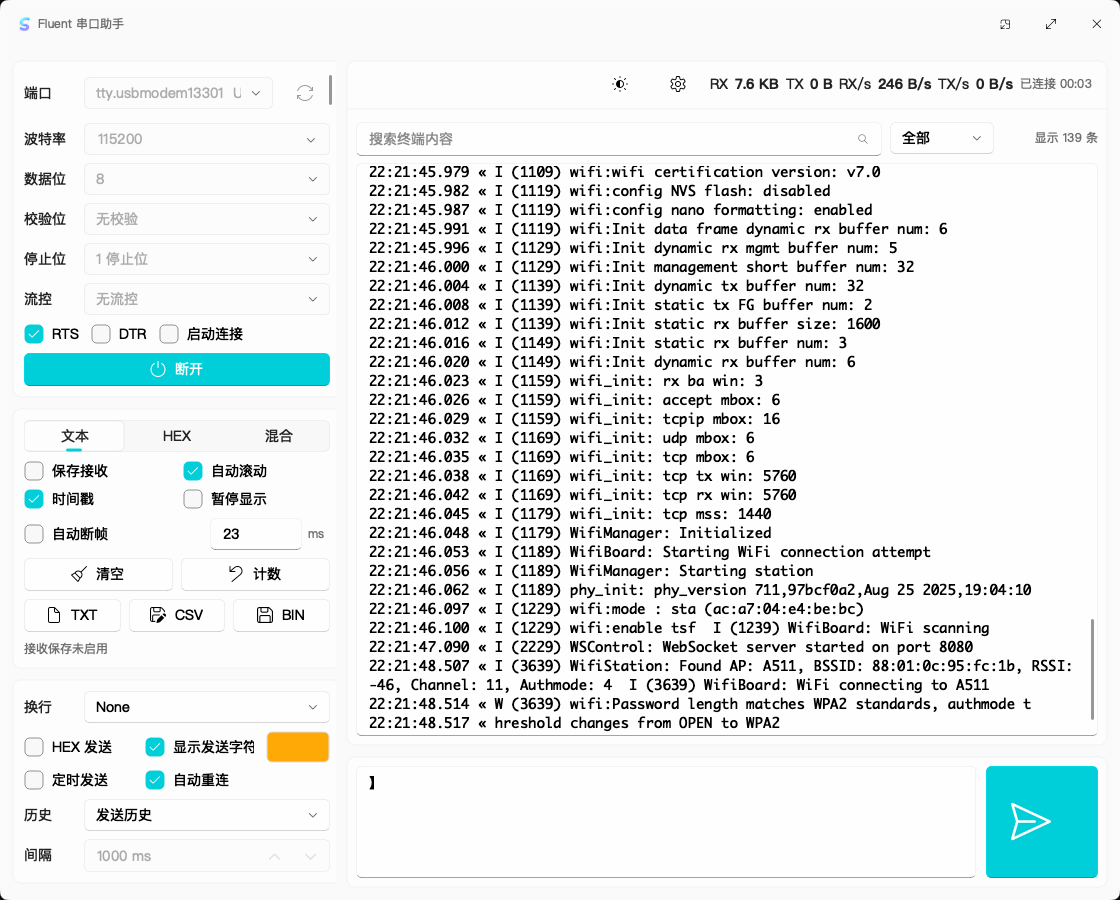
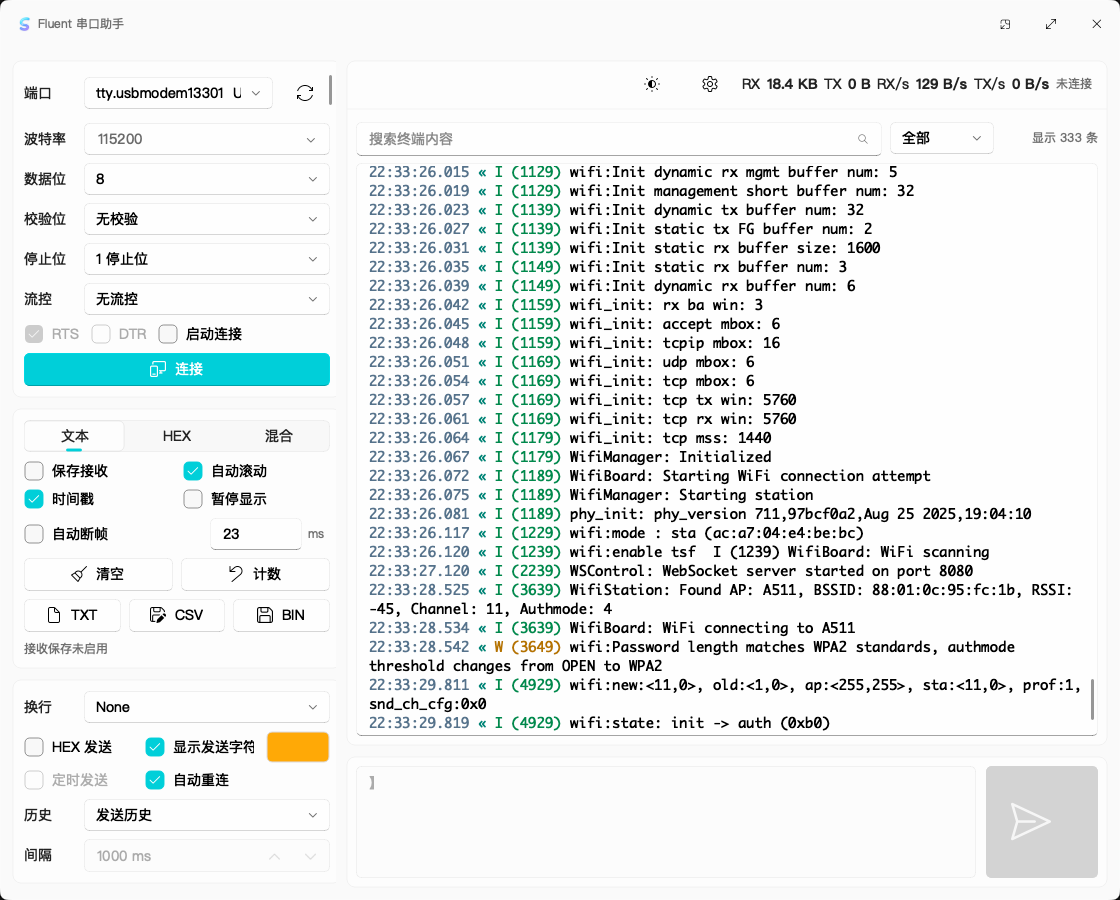
feat: 添加终端颜色主题支持和日志格式化功能

diff --git a/src/app/view/workbench_page.cpp b/src/app/view/workbench_page.cpp
@@ -6,6 +6,7 @@
 #include <FluentQtWidgets/Dialogs/FolderListDialog.h>
 #include <FluentQtWidgets/Settings/SettingCard.h>
 #include <FluentQtWidgets/StyleSheet.h>
+#include <FluentQtWidgets/Theme.h>
 
 #include <QtCore/QDir>
 #include <QtCore/QFileInfo>
@@ -50,6 +51,64 @@ constexpr int ReconnectIntervalMs = 2000;
 constexpr int CompactControlHeight = 32;
 constexpr int DefaultFileChunkSize = 256;
 constexpr int DefaultFileChunkIntervalMs = 10;
+
+QColor terminalTimestampColor()
+{
+    return ThemeManager::instance()->effectiveTheme() == Theme::Dark ? QColor(132, 192, 214) : QColor(75, 103, 128);
+}
+
+QColor terminalDirectionMarkerColor(bool tx)
+{
+    const bool dark = ThemeManager::instance()->effectiveTheme() == Theme::Dark;
+    if(tx) {
+        return dark ? QColor(255, 185, 115) : QColor(177, 86, 15);
+    }
+    return dark ? QColor(79, 214, 191) : QColor(0, 121, 107);
+}
+
+QColor terminalEspIdfLogLevelColor(QChar level)
+{
+    const bool dark = ThemeManager::instance()->effectiveTheme() == Theme::Dark;
+    switch(level.toUpper().toLatin1()) {
+    case 'V':
+        return dark ? QColor(187, 154, 255) : QColor(108, 84, 190);
+    case 'D':
+        return dark ? QColor(117, 190, 255) : QColor(33, 118, 188);
+    case 'I':
+        return dark ? QColor(103, 219, 123) : QColor(0, 126, 67);
+    case 'W':
+        return dark ? QColor(255, 209, 102) : QColor(171, 103, 0);
+    case 'E':
+        return dark ? QColor(255, 132, 132) : QColor(190, 35, 35);
+    default:
+        return QColor();
+    }
+}
+
+int espIdfLogPrefixEnd(const QString &line, int prefixStart)
+{
+    if(prefixStart + 4 >= line.size()) {
+        return -1;
+    }
+
+    const QColor levelColor = terminalEspIdfLogLevelColor(line.at(prefixStart));
+    if(!levelColor.isValid() || line.at(prefixStart + 1) != QLatin1Char(' ') ||
+       line.at(prefixStart + 2) != QLatin1Char('(')) {
+        return -1;
+    }
+
+    int cursor = prefixStart + 3;
+    const int digitStart = cursor;
+    while(cursor < line.size() && line.at(cursor).isDigit()) {
+        ++cursor;
+    }
+
+    if(cursor == digitStart || cursor >= line.size() || line.at(cursor) != QLatin1Char(')')) {
+        return -1;
+    }
+
+    return cursor + 1;
+}
 
 void setFixedControlWidth(QWidget *widget, int width)
 {
@@ -315,6 +374,9 @@ WorkbenchPage::WorkbenchPage(QWidget *parent)
     connect(&m_statsTimer, &QTimer::timeout, this, &WorkbenchPage::updateRateStats);
     m_fileSendTimer.setSingleShot(true);
     connect(&m_fileSendTimer, &QTimer::timeout, this, &WorkbenchPage::sendNextFileChunk);
+    connect(ThemeManager::instance(), &ThemeManager::effectiveThemeChanged, this, [this]() {
+        renderTerminal();
+    });
 
     refreshPorts();
     loadSendHistory();
@@ -1790,6 +1852,49 @@ bool WorkbenchPage::appendRecordToTerminal(QTextCursor &cursor, const SessionRec
     if(!searchText.isEmpty() && line.contains(searchText, Qt::CaseInsensitive)) {
         format.setBackground(QColor(255, 214, 10, 72));
     }
+
+    const bool showTimestamp = m_timestampCheck && m_timestampCheck->isChecked();
+    const QString timestamp = record.timestamp.toString(QStringLiteral("HH:mm:ss.zzz"));
+    const QString marker = record.direction == RecordDirection::Tx ? QStringLiteral("»") : QStringLiteral("«");
+    int position = 0;
+    if(showTimestamp && line.startsWith(timestamp)) {
+        QTextCharFormat timestampFormat = format;
+        timestampFormat.setForeground(terminalTimestampColor());
+        cursor.insertText(timestamp, timestampFormat);
+        position = timestamp.size();
+    }
+
+    const int markerIndex = line.indexOf(marker, position);
+    if(markerIndex >= position) {
+        QTextCharFormat markerFormat = format;
+        markerFormat.setForeground(terminalDirectionMarkerColor(record.direction == RecordDirection::Tx));
+        cursor.insertText(line.mid(position, markerIndex - position), format);
+        cursor.insertText(marker, markerFormat);
+
+        const int afterMarker = markerIndex + marker.size();
+        int prefixStart = afterMarker;
+        while(prefixStart < line.size() && line.at(prefixStart).isSpace()) {
+            ++prefixStart;
+        }
+
+        const int prefixEnd = espIdfLogPrefixEnd(line, prefixStart);
+        if(prefixEnd > prefixStart) {
+            QTextCharFormat levelFormat = format;
+            levelFormat.setForeground(terminalEspIdfLogLevelColor(line.at(prefixStart)));
+            cursor.insertText(line.mid(afterMarker, prefixStart - afterMarker), format);
+            cursor.insertText(line.mid(prefixStart, prefixEnd - prefixStart), levelFormat);
+            cursor.insertText(line.mid(prefixEnd), format);
+        } else {
+            cursor.insertText(line.mid(afterMarker), format);
+        }
+        return true;
+    }
+
+    if(position > 0) {
+        cursor.insertText(line.mid(position), format);
+        return true;
+    }
+
     cursor.insertText(line, format);
     return true;
 }